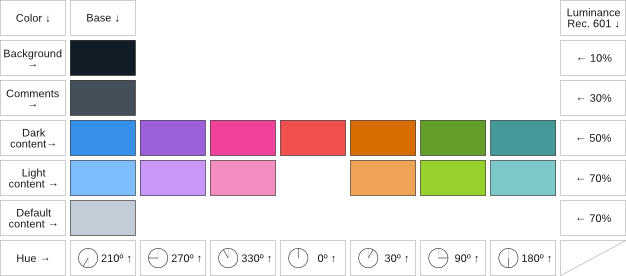
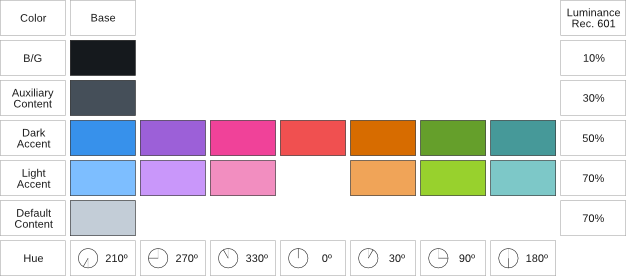
Changed background color

diff --git a/README.md b/README.md
@@ -18,7 +18,7 @@ In a RGB color wheel, hue angles have been calculated in order to be distinguish
 ```
 ATOMIC COLORS   LUMA    HUE     HEX     (R  G  B)    (H  S  V)
 -------------  ------  -----  -------  --- --- ---  --- --- ---
-Black            10%   210º   #121C26   18  28  38  210 134  38
+Black            10%   210º   #15191D   21  25  29  210  70  29
 Dark Grey        30%   210º   #454F59   69  79  89  210  57  89
 Dark Blue        50%   210º   #3791EB   55 145 235  210 196 235
 Dark Violet      50%   270º   #9C60D8  156  96 216  270 142 216
